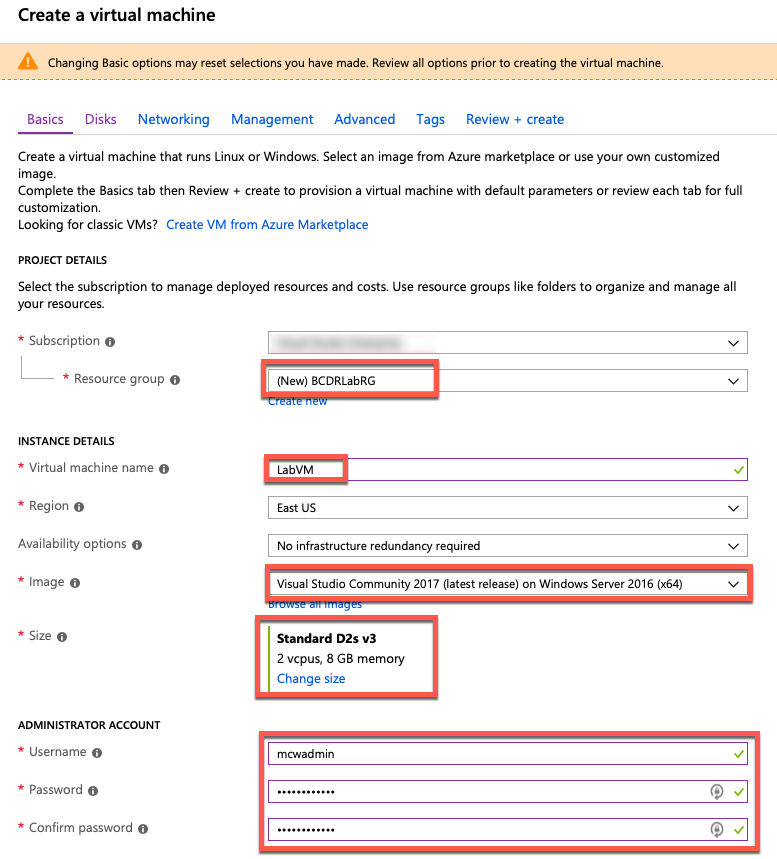
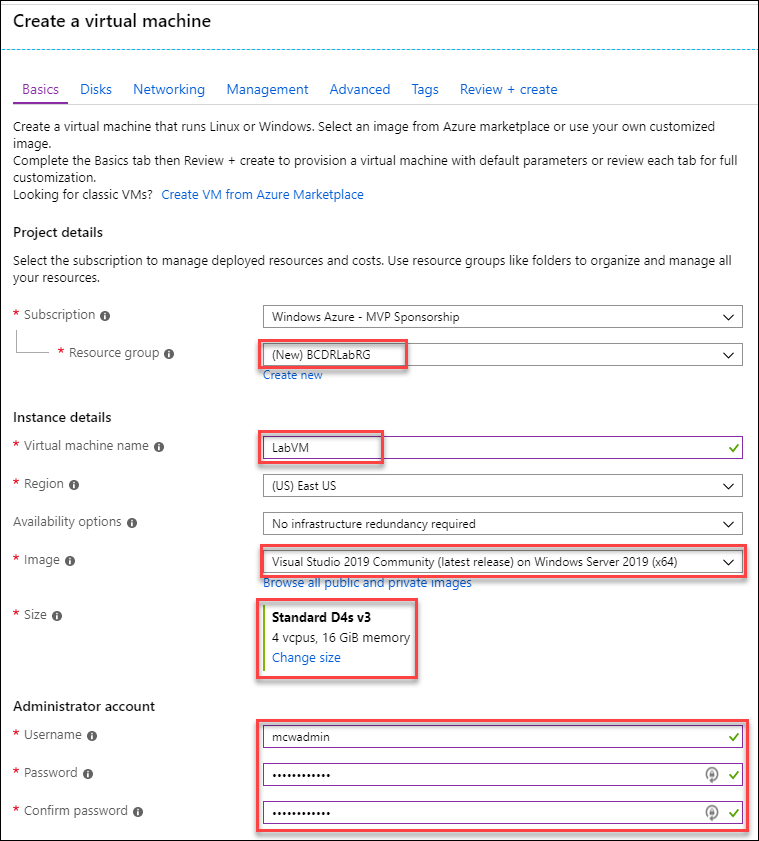
Update Before HOL to deploy VS'19 VM
For issue #30 to update to using Visual Studio 2019

diff --git a/Hands-on lab/Before the HOL - Business continuity and disaster recovery.md b/Hands-on lab/Before the HOL - Business continuity and disaster recovery.md
@@ -50,15 +50,13 @@ Duration: 20 minutes
 
 1.  Launch a browser and navigate to the Azure Global portal at <https://portal.azure.com>. Once prompted, login with your Microsoft Azure credentials. If prompted, choose whether your account is an Organization  or Microsoft account.
 
-2.  Select **+Create a resource**, in the search box start typing **Visual Studio Community** and press **Enter**. Select the **Visual Studio Community 2017 (latest updates) on Windows Server 2016 (64)**.
+2.  Select **+Create a resource**, in the search box start typing **Visual Studio Community** and press **Enter**. Select the **Visual Studio 2019 Latest** tile, then choose the **Visual Studio 2019 Community (latest release) on Windows Server 2019 (x64)** software plan.
 
     >**Note**: Ensure that you select the exact image name identified above. Failure to do so may result in problems successfully completing the BCDR HOL.
 
-3.  In the returned search results, select the latest image name. Leave the *Select a Deployment Model* chooser on **Resource Manager**.
+    ![In the Everything blade, Visual Studio Community 2019 (latest release) on Windows Server 2019 (x64) is selected.](images/Setup/image5.png "Marketplace blade")
 
-    ![In the Everything blade, Visual Studio Community 2017 (latest release) on Windows Server 2016 (x64) is selected.](images/Setup/image5.png "Everything blade")
-
-4.  Select **Create**.
+3.  Select **Create**.
 
 5.  Apply the following configuration items on the Basics tab and select **OK**:
 
@@ -68,7 +66,7 @@ Duration: 20 minutes
 
     -   **Virtual machine name**: LABVM
 
-    -   **Size**: Choose the **Standard D2s V3 (D2s_V3)** instance size.
+    -   **Size**: Choose the **Standard D4s V3** instance size.
 
     -   **Region**: Choose the Azure region closet to you.
 
@@ -91,16 +89,16 @@ Duration: 20 minutes
     ![Premium SSD is selected, then Next : Networking](images/Setup/image8.png "Next: Networking>")
 
 8.  Click **Allow selected ports** and then choose **RDP** (3389) from the **Select  inbound ports** dropdown chooser.  This will enable remote desktop connections from the internet to LABVM.
-    
+
     ![Select public inbound ports dropdown with RDP (3389) selected](images/Setup/image27.png "Select public inbound ports dropdown")
 
 9.  Click **Review + create**.
 
-     ![Review + create button](images/Setup/image28.png "Review + create button")
+    ![Review + create button](images/Setup/image28.png "Review + create button")
     
 10. After validation, click **Create**. The Azure deployment should begin provisioning. It may take 10+ minutes for the virtual machine provisioning to complete.
 
-       ![Screenshot of the Deploying Visual Studio Community 2017 icon.](images/Setup/image9.png "Deploying Visual Studio icon")
+    ![Screenshot of the Deploying Visual Studio Community 2019.](images/Setup/image9.png "Your deployment is underway")
 
 >**Note:** Please wait for the LABVM to be completely provisioned prior to moving to the next step.
 
